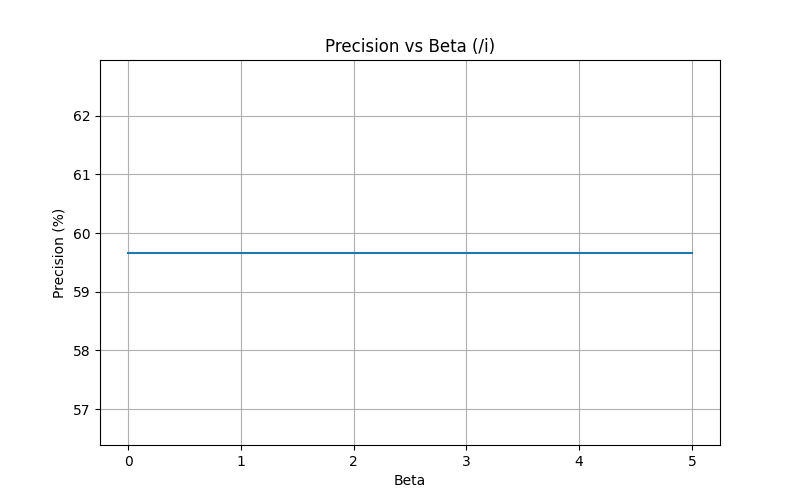
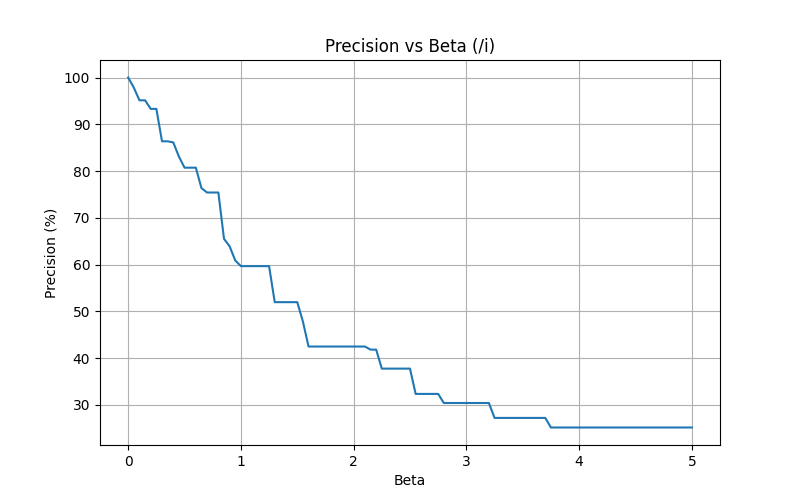
11/25/2025 Commit 3 - sweep attempt 3
- Fixed label error in compute_thresholds.py that was causing weird interjections curve
- Did renewed correct beta sweep

diff --git a/interspeech2024-code/sed/wenet/wenet/bin/compute_thresholds.py b/interspeech2024-code/sed/wenet/wenet/bin/compute_thresholds.py
@@ -220,7 +220,7 @@ def main():
     with open(args.tuning_config, 'r') as tf:
         tuning_data = json.load(tf)
     f_beta_values = tuning_data.get('f_beta', {})
-    class_labels = ['/p', '/b', '/r', '/wr', '/int']  # order must match class order
+    class_labels = ['/p', '/b', '/r', '/wr', '/i']  # order must match class order
 
     # Per-class F1-optimal thresholds via PR curve
     num_classes = all_probs.shape[1]
